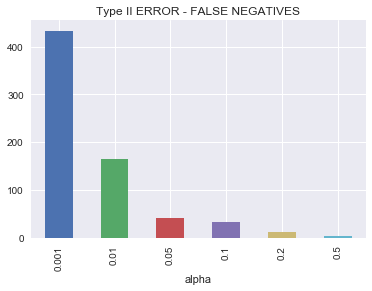
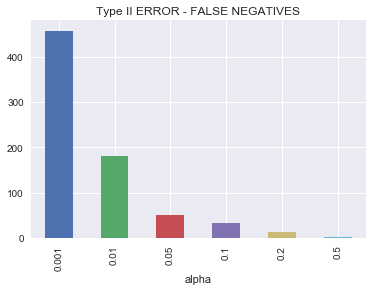
updated readme

diff --git a/README.md b/README.md
@@ -12,9 +12,26 @@ In this lab, you'll run some of your own simulations to learn more about type 1 
 You will be able to:
 
 * Explain why alpha = 0.05 is chosen as the cut off point for rejecting Null hypothesis in most scientific experiments
+    * It's a convention and is a good tradeoff between type I and type II error.
+
 * Simulate Type I and Type II errors with alpha control to observe the output of an experiment
 * Describe and differentiate between TYPE I and TYPE II errors
-* Understand alpha and beta for representing false positive and false negative values
+    * Determine how type I and type II errors are effected by alpha
+    * Type I is where we see a difference but there is not one, reject but we shouldn't reject null hypothesis (false positive)
+    * Type II is where we should reject the null, but we fail to do so.  In other words we're accepting the null hypothesis, but it's actually false.
+* Describe alpha and beta for representing false positive and false negative values
+    * alpha increases
+        * type I will increase because the space outside of the 'good region' is increasing
+        * type II will decrease because the 'good region' is decreasing
+    * Converse is true if alpha decreases
+
+
+# What we learned
+* How to evaluate whether random samples are representative of a total population - chris
+* Tradeoff between type I and type II errors, dictated by alpha - Danyal
+* Sampling distributions are distributions of means, for example, of a population. - Chris
+* Learned to divide alpha by 2 to get the tails. - Masood
+* How to put a sample distribution on a sampling distribution plot/graph.
 
 ## Alpha and Beta
 
@@ -59,7 +76,7 @@ sns.distplot(pop)
 
 
 
-    <matplotlib.axes._subplots.AxesSubplot at 0x1085d2e48>
+    <matplotlib.axes._subplots.AxesSubplot at 0x1a10083dd8>
 
 
 
@@ -84,7 +101,7 @@ stats.describe(sample1)
 
 
 
-    DescribeResult(nobs=100, minmax=(42.894352216842066, 147.28560302587476), mean=96.61297543591365, variance=405.5116712908975, skewness=0.23988419345642897, kurtosis=-0.26276760640849295)
+    DescribeResult(nobs=100, minmax=(37.937428169323496, 144.9108713600725), mean=101.17878327192903, variance=390.0737390627844, skewness=-0.5052834136523039, kurtosis=0.47573896699174334)
 
 
 
@@ -101,7 +118,7 @@ stats.describe(sample2)
 
 
 
-    DescribeResult(nobs=100, minmax=(49.83527162898597, 154.07785139854766), mean=96.47071308388206, variance=433.7562450962168, skewness=0.17264373338860386, kurtosis=-0.2241136639981094)
+    DescribeResult(nobs=100, minmax=(51.29585873925131, 171.15353116938894), mean=97.26149261303051, variance=443.83261928981943, skewness=0.34305326468690917, kurtosis=0.5882283788214968)
 
 
 
@@ -120,7 +137,7 @@ stats.ttest_ind(sample1, sample2)
 
 
 
-    Ttest_indResult(statistic=0.04910657831019071, pvalue=0.9608838604654049)
+    Ttest_indResult(statistic=1.3565229770313056, pvalue=0.1764775314643652)
 
 
 
@@ -146,8 +163,11 @@ plt.show()
 
 ## Simulating Type I and II errors
 
-### Type I error
-TYPE I error describes a situation where you reject the null hypothesis when it is actually true. This type of error is also known as a "false positive" or "false hit". The type 1 error rate is equal to the significance level α, so setting a higher confidence level (and therefore lower alpha) reduces the chances of getting a false positive.
+### Type I error - Rejecting when you shouldn't
+TYPE I error describes a situation where you reject the null hypothesis when it is actually true. This type of error is also known as a "false positive" or "false hit". The type 1 error rate is equal to the significance level α, **so setting a higher confidence level (and therefore lower alpha) reduces the chances of getting a false positive.**
+
+
+### alpha = tolerance - how many sample metrics we will tolerate to be outside of the hypothesized distribution metric.
 
 
 
@@ -174,6 +194,9 @@ import pandas as pd
 
 numTests = 100
 alphaSet = [0.001, 0.01, 0.05, 0.1, 0.2, 0.5]
+
+# 0.001 alpha means
+# 
 columns = ['err', 'p_val', 'alpha']
 sigTests = pd.DataFrame(columns=columns)
 
@@ -245,31 +268,31 @@ sigTests.head()
     <tr>
       <th>1</th>
       <td>0.0</td>
-      <td>0.455428</td>
+      <td>0.467576</td>
       <td>0.001</td>
     </tr>
     <tr>
       <th>2</th>
       <td>0.0</td>
-      <td>0.730703</td>
+      <td>0.121453</td>
       <td>0.010</td>
     </tr>
     <tr>
       <th>3</th>
       <td>0.0</td>
-      <td>0.431905</td>
+      <td>0.167776</td>
       <td>0.050</td>
     </tr>
     <tr>
       <th>4</th>
       <td>0.0</td>
-      <td>0.202983</td>
+      <td>0.585402</td>
       <td>0.100</td>
     </tr>
     <tr>
       <th>5</th>
-      <td>1.0</td>
-      <td>0.179599</td>
+      <td>0.0</td>
+      <td>0.432011</td>
       <td>0.200</td>
     </tr>
   </tbody>
@@ -290,7 +313,7 @@ group_error.plot.bar(title = "TYPE I ERROR - FALSE POSITIVES")
 
 
 
-    <matplotlib.axes._subplots.AxesSubplot at 0x1a14872748>
+    <matplotlib.axes._subplots.AxesSubplot at 0x1a1b9a5cc0>
 
 
 
@@ -300,7 +323,7 @@ group_error.plot.bar(title = "TYPE I ERROR - FALSE POSITIVES")
 
 Grouped data clearly shows that as value of alpha is increases from .001 to 0.5, the probability of TYPE I errors also increase.  
 
-### Type II error 
+### Type II error - Failing to Reject when you should - 'accepting when you shouldn't accept'
 
 This error describes a situation where you fail to reject the null hypothesis when it is actually false. Type II error is also known as a "false negative" or "miss". The higher your confidence level, the more likely you are to make a type II error.
 
@@ -352,7 +375,7 @@ group_error2.plot.bar(title = "Type II ERROR - FALSE NEGATIVES")
 
 
 
-    <matplotlib.axes._subplots.AxesSubplot at 0x1a148dc358>
+    <matplotlib.axes._subplots.AxesSubplot at 0x1a1bb598d0>
 
 
 
